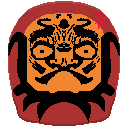
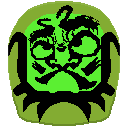
リザルト画像できた

diff --git a/TitleScene.cpp b/TitleScene.cpp
@@ -2,12 +2,15 @@
 #include "Util.h"
 #include"Input.h"
 #include"Score.h"
+#include "main.h"
 
 int TitleScene::title;
+int TitleScene::click;
 
 void TitleScene::SetTexture()
 {
 	title = DxLib::LoadGraph(L"Resources/Scene/title.png");
+	click = LoadGraph(L"Resources/Scene/clickstart.png");
 }
 
 void TitleScene::Init()
@@ -15,7 +18,7 @@ void TitleScene::Init()
 	boxPos = { 0,0 };
 	color = DxLib::GetColor(0, 0, 0);
 	Score::Reset();
-	
+
 }
 
 void TitleScene::Update()
@@ -33,6 +36,9 @@ void TitleScene::Update()
 void TitleScene::Draw()
 {
 	DxLib::DrawGraph(0, 0, title, TRUE);
+	int widthClick = WIN_WIDTH / 2;
+	int heightClick = WIN_HEIGHT / 4 - 64;
+	DrawGraph(widthClick - 224, heightClick + 350, click, TRUE);
 
 	DxLib::SetDrawBlendMode(DX_BLENDMODE_ALPHA, alphaNum);
 	Util::DrawBox(boxPos, width, height, color, true);

diff --git a/ResultScene.cpp b/ResultScene.cpp
@@ -8,7 +8,7 @@
 
 void ResultScene::SetTexture()
 {
-	HaikeiGHandle= LoadGraph(L"Resources/Scene/game.png");
+	HaikeiGHandle= LoadGraph(L"Resources/Scene/result.png");
 }
 
 void ResultScene::Init()
